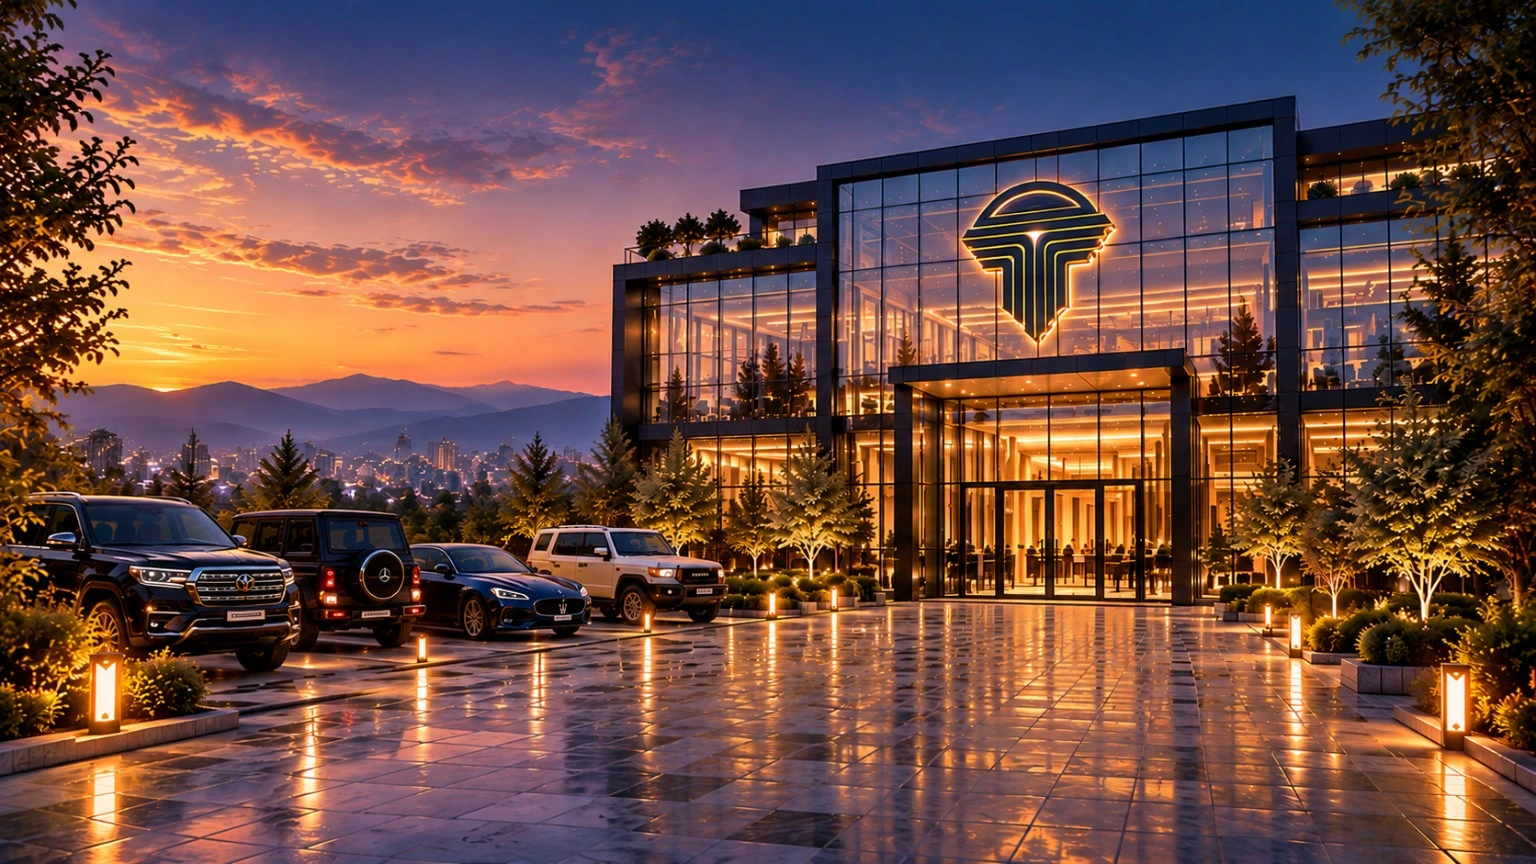
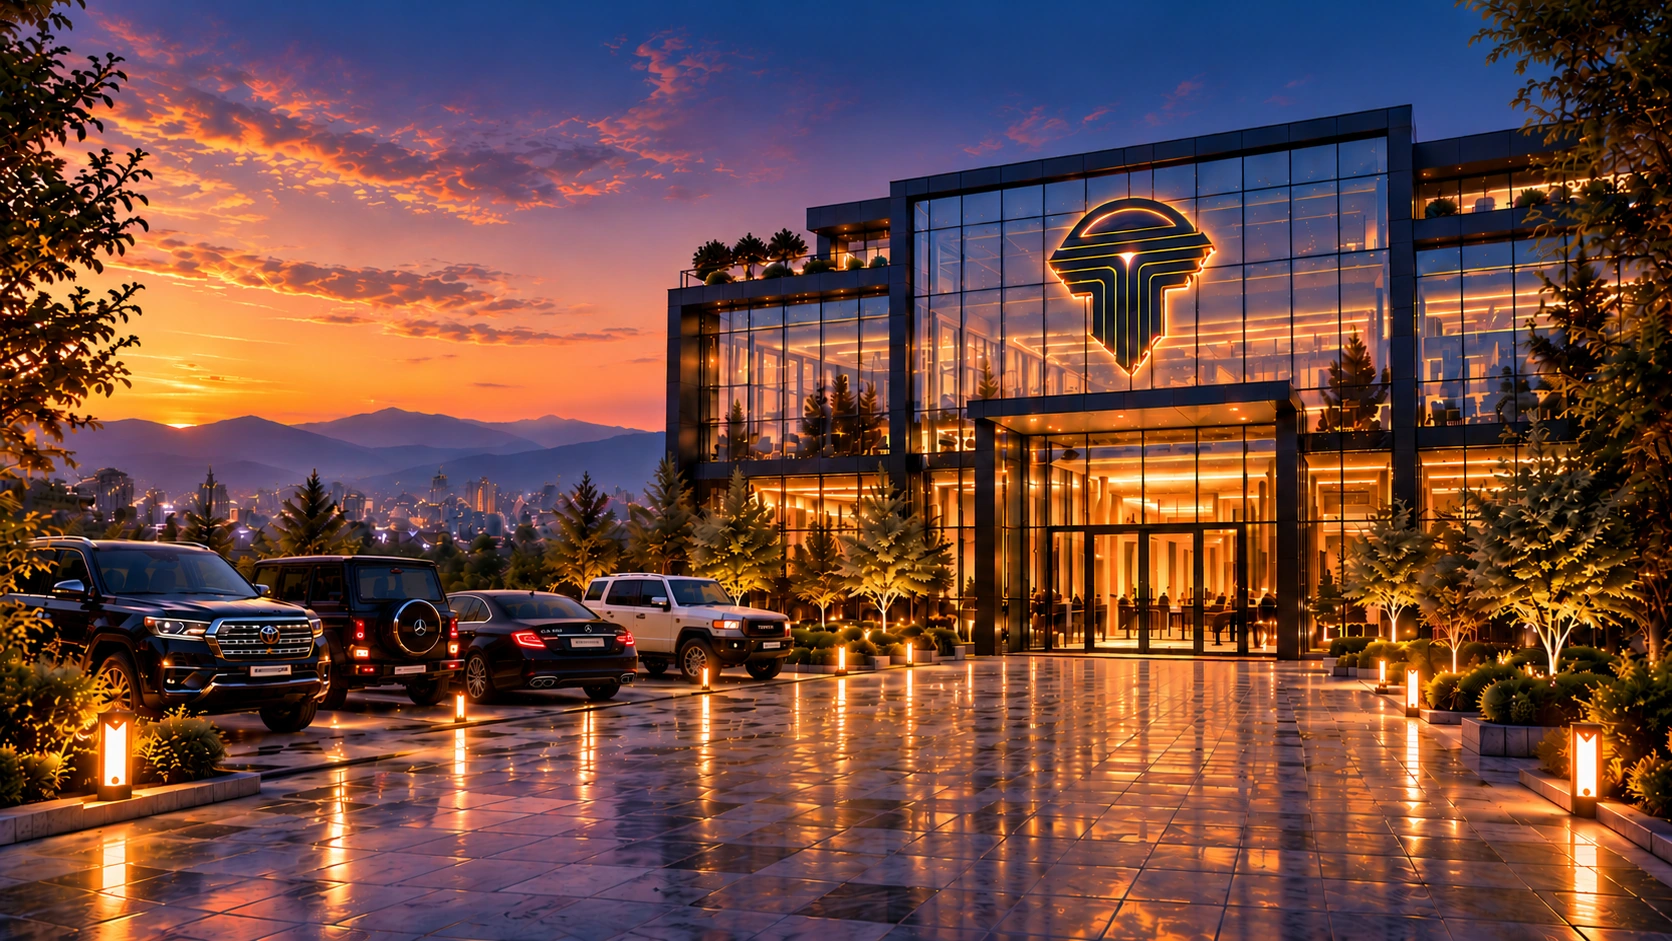
Replace dashboard photo and blend canvas edges with aligned profile toolbar

diff --git a/TORSEPAN.Panel/wwwroot/theme.css b/TORSEPAN.Panel/wwwroot/theme.css
@@ -316,8 +316,8 @@ body .theme-shell .theme-hero::after { background: radial-gradient(ellipse 19px 
 @media(max-width:768px) { body .theme-shell .dashboard-hero h1 { font-size: 16.7px; letter-spacing: 1.15px; } }
 /* Match the reference header alignment and preserve real photograph/card overlap. */
 @media(max-width:768px) {
-    body .layout.theme-shell > .main > .topbar { padding-inline: 5px 11px; }
-    body .theme-shell .topbar .topbar-left { padding-inline-start: 53px; }
+    body .layout.theme-shell > .main > .topbar { padding-inline: 11px; gap: 3px; }
+    body .theme-shell .topbar .topbar-left { padding-inline-start: 47px; }
     body .theme-shell .topbar .page-title-main { font-size: 15.3px; }
     body .theme-shell .topbar .topbar-workshop-mark { transform: scale(1.3); }
     body .theme-shell .topbar .topbar-right {
@@ -418,3 +418,13 @@ body .theme-shell { --bs-success-rgb: 3,30,67; --bs-success: #031e43; }
 body .theme-shell .btn-success { --bs-btn-hover-bg: #00152f; --bs-btn-active-bg: #00152f; --bs-btn-hover-border-color: #00152f; --bs-btn-active-border-color: #00152f; }
 
 body .theme-shell .btn-outline-success { --bs-btn-color: #031e43; --bs-btn-border-color: #031e43; --bs-btn-hover-bg: #031e43; --bs-btn-hover-border-color: #031e43; --bs-btn-active-bg: #00152f; --bs-btn-active-border-color: #00152f; }
+
+/* Blend the replacement photograph into the canvas without moving the summary card. */
+body .theme-shell .workshop-panorama {
+    position: relative;
+}
+body .theme-shell .workshop-panorama::after {
+    content: ""; position: absolute; inset: auto 0 0; height: 65px;
+    pointer-events: none;
+    background: linear-gradient(to bottom, #edf4fc00, #edf4fc38 35%, #edf4fccc 78%, var(--tp-canvas));
+}
